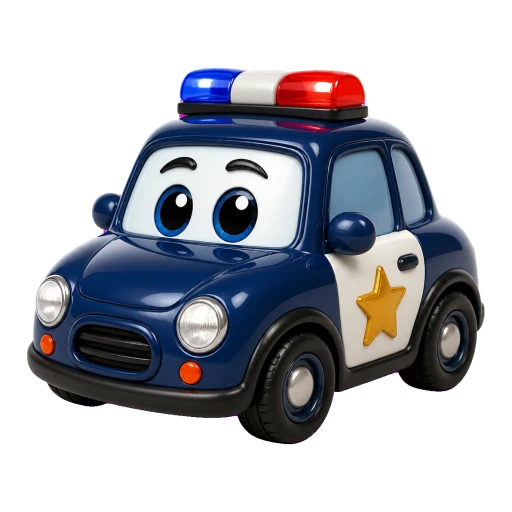
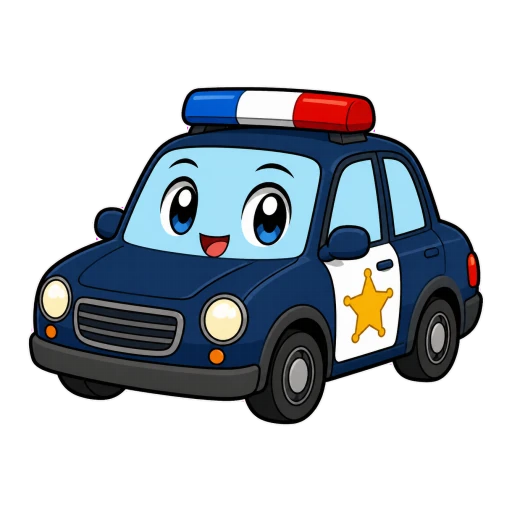
v10.0: 핵심 5종 15장을 순수 2D 애니메이션 셀 셰이딩으로 전면 재제작 (3D 토이 톤 제거, 굵은 외곽선·플랫 2톤 셀 셰이딩) + 이미지 캐시 버스팅 ?v=100

diff --git a/index.html b/index.html
@@ -2357,7 +2357,7 @@
 
     /* ============================================================
        🌟 v9.8 — 핵심 5종 3D 일러스트 & 스테이지 진화 풀 이펙트
-       🎨 v9.9 — 2·3단계 그림톤 통일 (1단계 3D 토이 화풍 그대로) + 이미지 캐시 버스팅
+       🎨 v10.0 — 5종 15장 전면 재제작: 순수 2D 애니메이션 셀 셰이딩(굵은 외곽선) + 이미지 캐시 버스팅 ?v=100
        ============================================================ */
 
     /* 1) 캐릭터 무대 크기 : 아이패드/PC 240px+, 모바일도 넉넉하게 */
@@ -2692,7 +2692,7 @@
     <!-- 상단 글로벌 바 -->
     <div class="header-bar">
       <div class="top-action-row">
-        <div class="app-title-badge">🐾 우리 집 루틴 다마고치 <span class="app-version-chip" id="app-version-chip">v9.9</span></div>
+        <div class="app-title-badge">🐾 우리 집 루틴 다마고치 <span class="app-version-chip" id="app-version-chip">v10.0</span></div>
         <div class="top-sync-btns">
           <span class="sync-indicator-badge syncing" id="sync-status-badge" onclick="manualSyncNow()" title="터치하면 지금 바로 시트와 동기화합니다">🔄 첫 동기화 확인 중...</span>
           <button class="top-btn synergy-top-btn" id="synergy-top-btn" onclick="openSynergyModal()" style="display: none; background: linear-gradient(135deg, #FF6B6B, #FF8E53, #FFD93D); color: #FFFFFF; font-weight: 900; animation: synergyPulse 1.5s infinite alternate; box-shadow: 0 0 12px rgba(255, 107, 107, 0.6); border: none;">⚡ 슈퍼 합체 출동!</button>
@@ -3059,7 +3059,7 @@
       <!-- 4-1. 앱 버전 & 캐시 새로고침 -->
       <div style="background: #F7FAFC; border: 1px solid #E2E8F0; border-radius: 12px; padding: 10px 12px; margin-bottom: 12px;">
         <div style="display: flex; justify-content: space-between; align-items: center; gap: 8px; flex-wrap: wrap;">
-          <span id="app-version-label" style="font-size: 11px; font-weight: 800; color: #4A5568;">앱 버전 v9.9</span>
+          <span id="app-version-label" style="font-size: 11px; font-weight: 800; color: #4A5568;">앱 버전 v10.0</span>
           <div style="display: flex; gap: 6px; flex-wrap: wrap;">
             <button class="top-btn" onclick="forceUpdateApp()" style="background: #3182CE; color: white;">🔄 최신 버전 새로고침</button>
             <button class="top-btn" onclick="openEmergencyRestoreModal()" style="background: #C05621; color: white;">🛡 응급 성장 복구</button>
@@ -3535,9 +3535,9 @@
         eggColor: '#F6AD55',
         dialogueType: 'excavator',
         species: [
-          { name: '꼬마 포크레인', img: 'assets/partners/excavator_1.webp?v=99', art: true },
-          { name: '드릴 파워 굴착기', img: 'assets/partners/excavator_2.webp?v=99', art: true },
-          { name: '포크레인 킹 로봇', img: 'assets/partners/excavator_3.webp?v=99', art: true }
+          { name: '꼬마 포크레인', img: 'assets/partners/excavator_1.webp?v=100', art: true },
+          { name: '드릴 파워 굴착기', img: 'assets/partners/excavator_2.webp?v=100', art: true },
+          { name: '포크레인 킹 로봇', img: 'assets/partners/excavator_3.webp?v=100', art: true }
         ]
       },
       {
@@ -3583,9 +3583,9 @@
         eggColor: '#FEB2B2',
         dialogueType: 'dump',
         species: [
-          { name: '꼬마 덤프', img: 'assets/partners/dumptruck_1.webp?v=99', art: true },
-          { name: '슈퍼 메가 덤프', img: 'assets/partners/dumptruck_2.webp?v=99', art: true },
-          { name: '덤프 타이탄 로봇', img: 'assets/partners/dumptruck_3.webp?v=99', art: true }
+          { name: '꼬마 덤프', img: 'assets/partners/dumptruck_1.webp?v=100', art: true },
+          { name: '슈퍼 메가 덤프', img: 'assets/partners/dumptruck_2.webp?v=100', art: true },
+          { name: '덤프 타이탄 로봇', img: 'assets/partners/dumptruck_3.webp?v=100', art: true }
         ]
       },
       {
@@ -3643,9 +3643,9 @@
         eggColor: '#FC8181',
         dialogueType: 'firetruck',
         species: [
-          { name: '꼬마 소방차', img: 'assets/partners/firetruck_1.webp?v=99', art: true },
-          { name: '메가 사다리 소방차', img: 'assets/partners/firetruck_2.webp?v=99', art: true },
-          { name: '하이퍼 레스큐 소방로봇', img: 'assets/partners/firetruck_3.webp?v=99', art: true }
+          { name: '꼬마 소방차', img: 'assets/partners/firetruck_1.webp?v=100', art: true },
+          { name: '메가 사다리 소방차', img: 'assets/partners/firetruck_2.webp?v=100', art: true },
+          { name: '하이퍼 레스큐 소방로봇', img: 'assets/partners/firetruck_3.webp?v=100', art: true }
         ]
       },
       {
@@ -3655,9 +3655,9 @@
         eggColor: '#90CDF4',
         dialogueType: 'police',
         species: [
-          { name: '꼬마 순찰차', img: 'assets/partners/police_1.webp?v=99', art: true },
-          { name: '고속 추격 패트롤카', img: 'assets/partners/police_2.webp?v=99', art: true },
-          { name: '저스티스 경찰로봇', img: 'assets/partners/police_3.webp?v=99', art: true }
+          { name: '꼬마 순찰차', img: 'assets/partners/police_1.webp?v=100', art: true },
+          { name: '고속 추격 패트롤카', img: 'assets/partners/police_2.webp?v=100', art: true },
+          { name: '저스티스 경찰로봇', img: 'assets/partners/police_3.webp?v=100', art: true }
         ]
       },
       {
@@ -3681,9 +3681,9 @@
         eggColor: '#68D391',
         dialogueType: 'beast',
         species: [
-          { name: '꼬마 티라노', img: 'assets/partners/tyranno_1.webp?v=99', art: true },
-          { name: '가시뿔 파이터 티라노', img: 'assets/partners/tyranno_2.webp?v=99', art: true },
-          { name: '절대군주 티라노 킹', img: 'assets/partners/tyranno_3.webp?v=99', art: true }
+          { name: '꼬마 티라노', img: 'assets/partners/tyranno_1.webp?v=100', art: true },
+          { name: '가시뿔 파이터 티라노', img: 'assets/partners/tyranno_2.webp?v=100', art: true },
+          { name: '절대군주 티라노 킹', img: 'assets/partners/tyranno_3.webp?v=100', art: true }
         ]
       },
       {
@@ -4489,8 +4489,8 @@
     // =========================================================================
     // 🧬 v9.4~v9.7 안정성 엔진 — 데이터 정규화 · 필드단위 병합 · 검증된 클라우드 저장
     // =========================================================================
-    const APP_VERSION = 'v9.9';
-    const APP_BUILD = '2026-11-20 16:20';
+    const APP_VERSION = 'v10.0';
+    const APP_BUILD = '2026-11-20 16:45';
     const SCHEMA_VERSION = 4;
     const SHEET_CELL_LIMIT = 50000;   // 구글 시트 단일 셀 최대 문자 수
     const SHEET_BUDGET = 45000;       // 안전 예산 (셀 한도에서 5,000자 여유)
